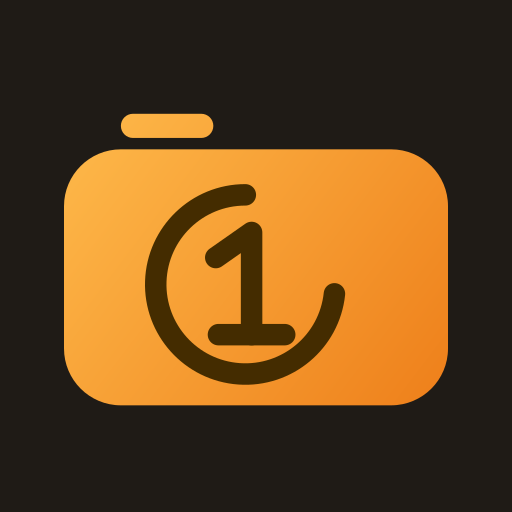
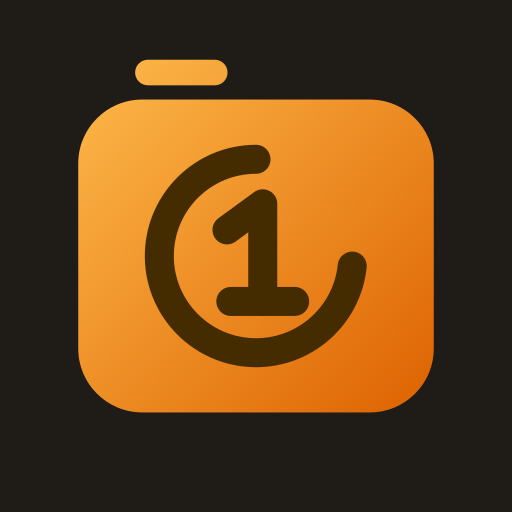
feat(branding): squarer camera, bolder mark, stronger gradient, centered ring

Changed region(s): [[0.125, 0.0938, 0.875, 0.8125]]

diff --git a/logo/v2/README.md b/logo/v2/README.md
@@ -7,6 +7,6 @@ Logo v1, redrawn by a script. The brand identity stays: the amber camera with a 
 - Source of truth: `scripts/logo/generate.mjs` (no npm dependencies). Never edit generated files by hand.
 - Regenerate everything: `make logo` (Docker, `node:22-alpine` + `rsvg-convert`).
 - Outputs: adaptive icon foreground and monochrome layer as VectorDrawables (`app/src/main/res/drawable/ic_launcher_*.xml`, wired in `mipmap-anydpi-v26/`), SVG masters here (`logo.svg` store icon, `foreground.svg`, `monochrome.svg`), `preview.png`, and the 512 px store icon `fastlane/metadata/android/en-US/images/icon.png`.
-- Colors: amber `#FEBA4B` to orange `#EE7F1A` (camera), ink `#442C00` (circle and "1"), night `#1F1B16` (adaptive background, `values/ic_launcher_background.xml`).
+- Colors: amber `#FEBA4B` to orange `#DD6200` (camera), ink `#442C00` (circle and "1"), night `#1F1B16` (adaptive background, `values/ic_launcher_background.xml`).
 - Themed icon (Android 13+): the circled "1" alone, larger, because the camera silhouette in one color would hide it.
 - Safe zone: the generator fails if the mark leaves the 33 dp radius that every launcher mask keeps.
